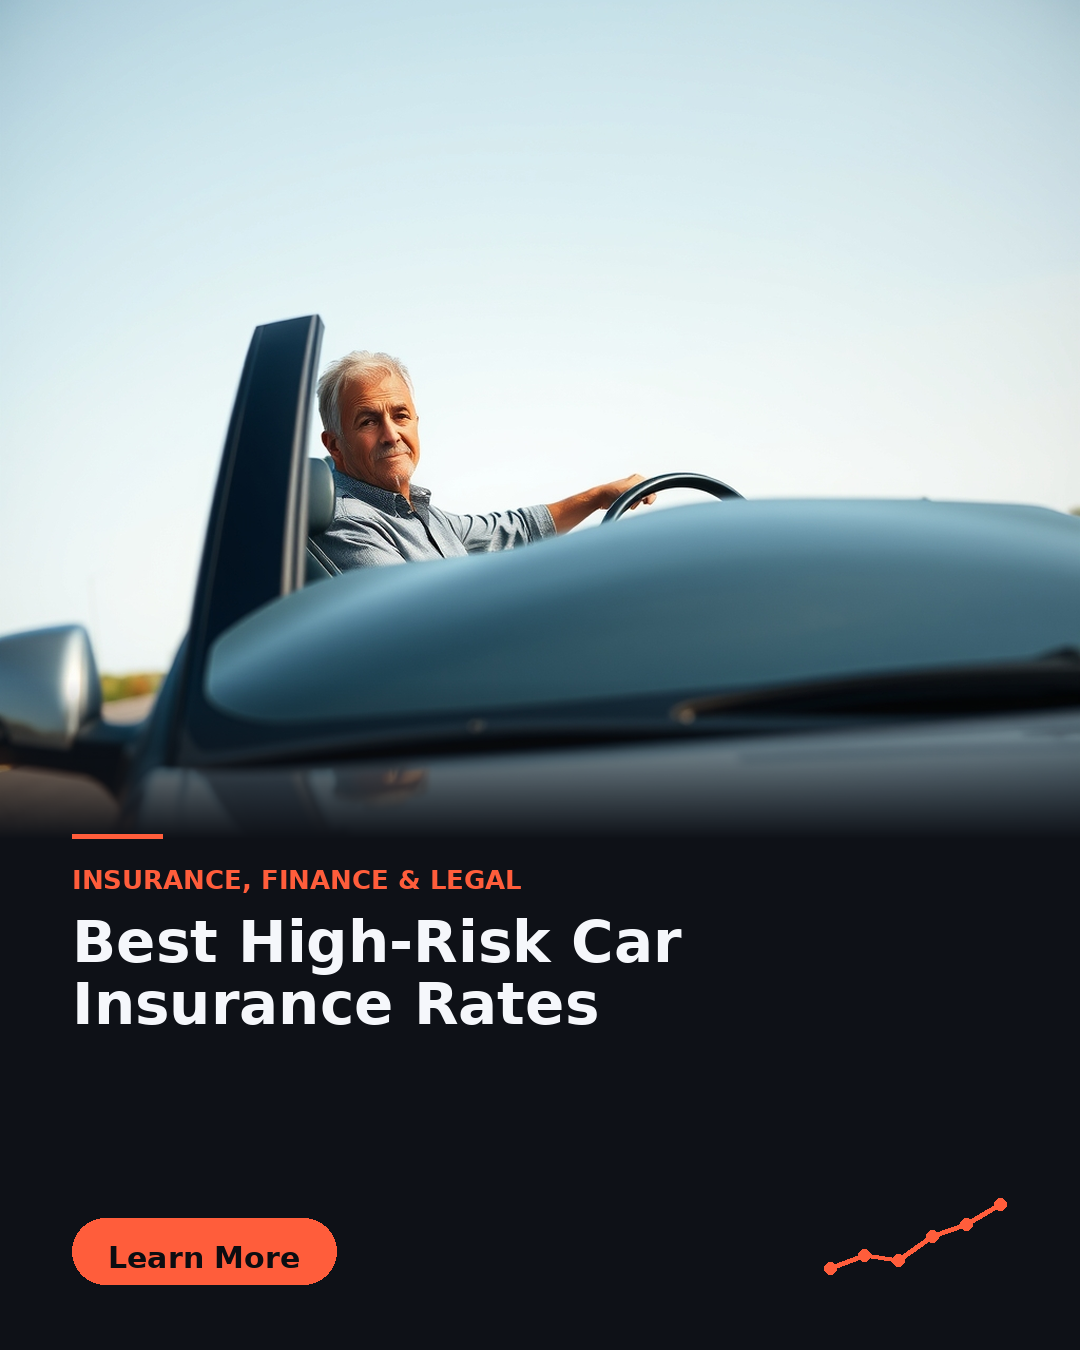
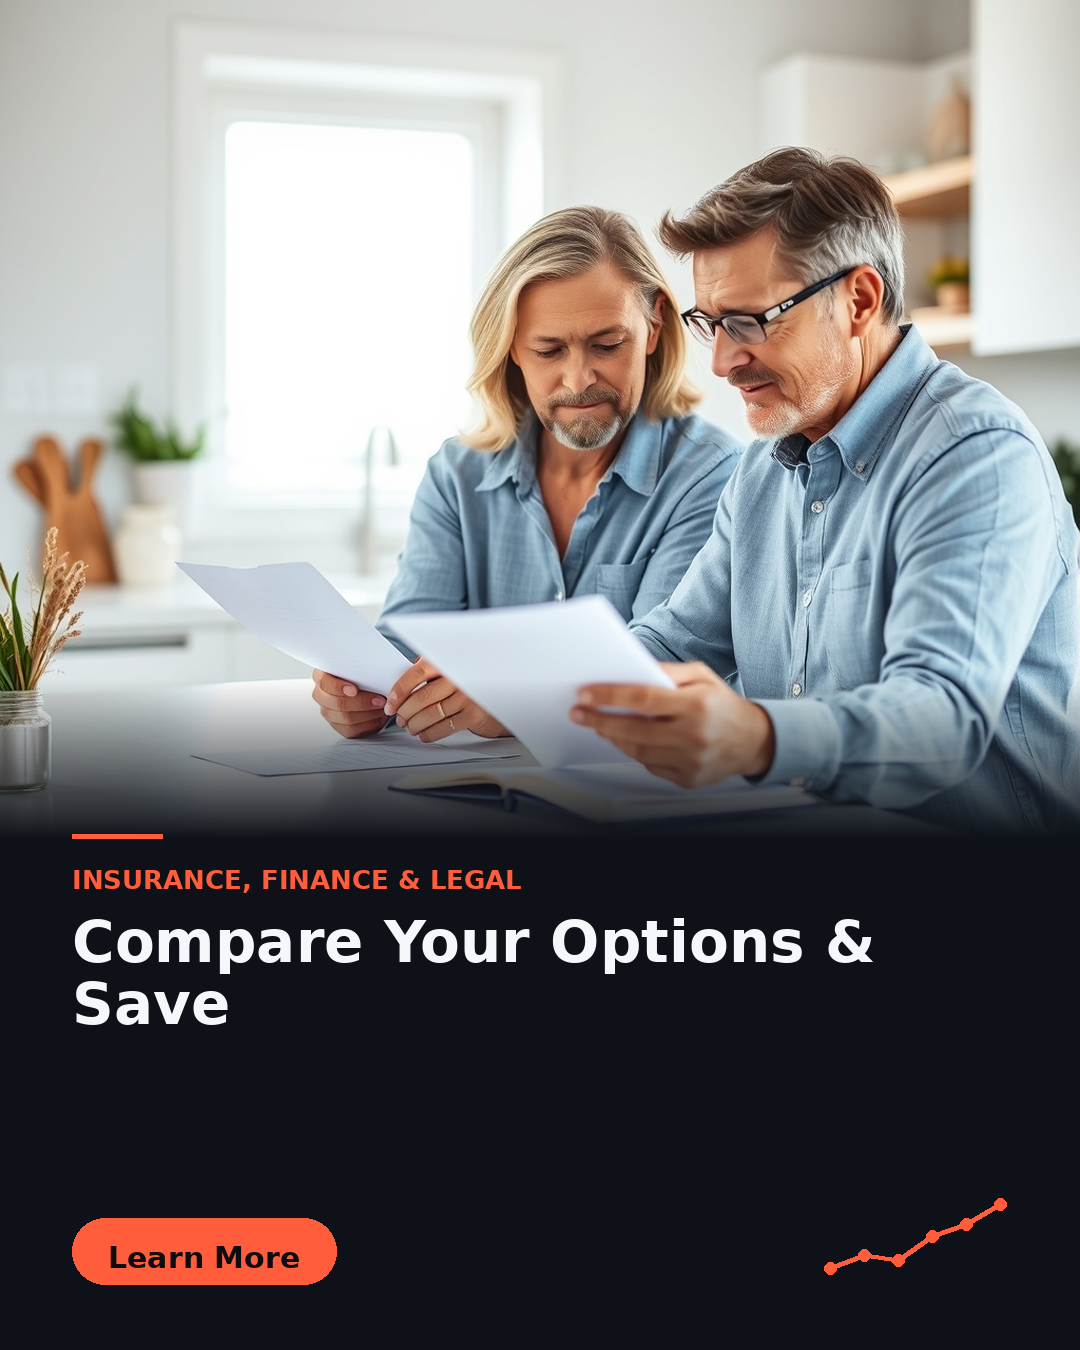
fix api call

diff --git a/app.py b/app.py
@@ -21,7 +21,7 @@ from apscheduler.schedulers.background import BackgroundScheduler
 
 import db
 import gemini_client
-from config import BASE_DIR, TOP_N, REFRESH_HOURS, NEWS_SCOPE, GEMINI_MODEL
+from config import BASE_DIR, TOP_N, TOP_PER_NICHE, REFRESH_HOURS, NEWS_SCOPE, GEMINI_MODELfrom pipeline import run_pipeline
 from pipeline import run_pipeline
 
 scheduler = BackgroundScheduler(timezone="UTC")